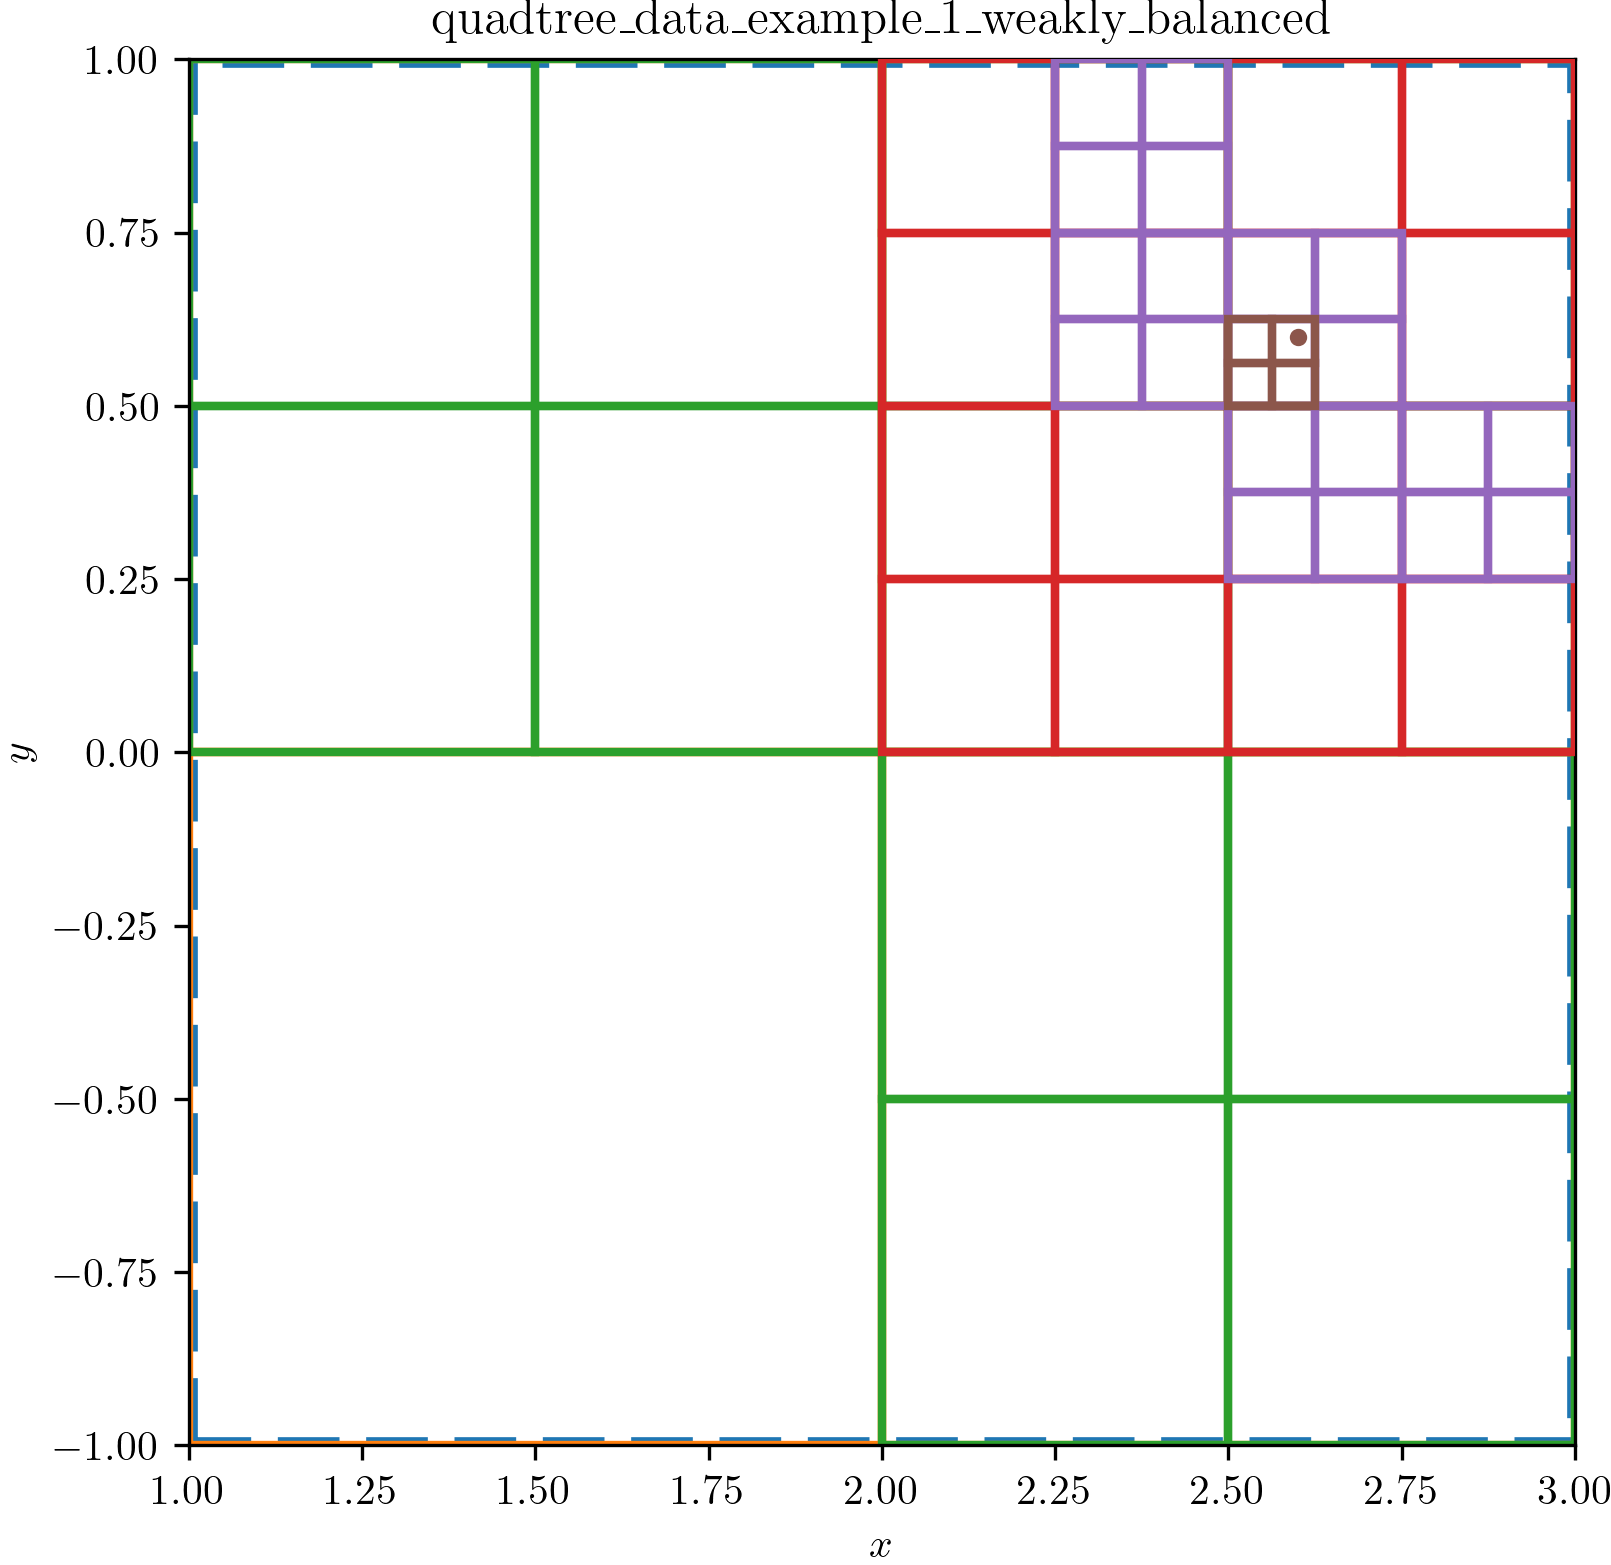
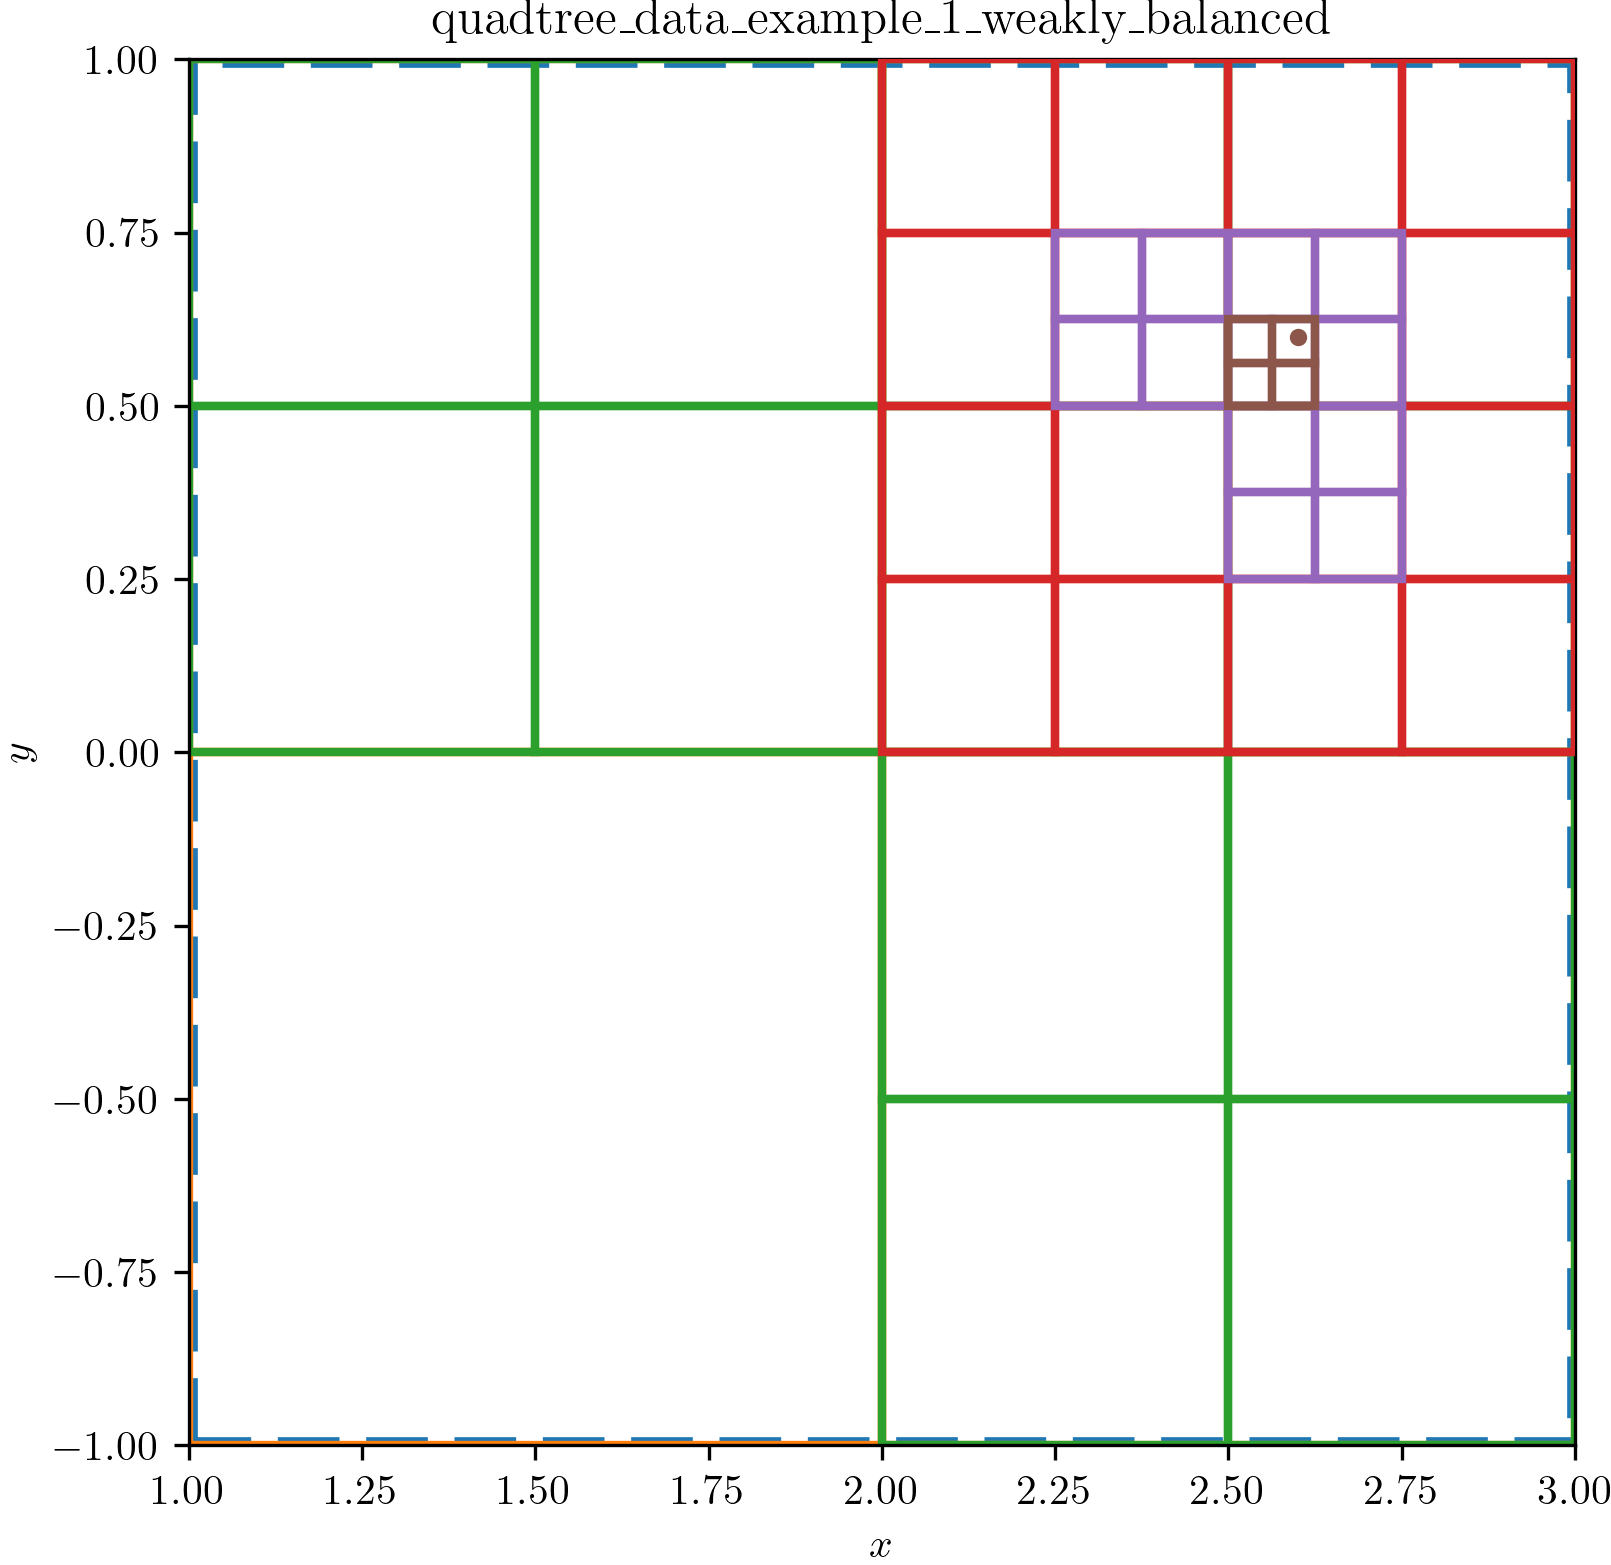
finish weakly balanced

Changed region(s): [[0.869, 0.2454, 0.9932, 0.3987], [0.6518, 0.0307, 0.7759, 0.1534]]

diff --git a/quadtree/src/lib.rs b/quadtree/src/lib.rs
@@ -416,7 +416,7 @@ impl Quadtree {
                     Direction::North => {
                         if !target_is_in_north && target_boundary.origin.y + target_boundary.height == center_y {
                             let northern_child = if target_is_in_west { nw } else { ne };
-                            northern_child.get_leaves_on_edge(Direction::South)
+                            northern_child.get_leaves_on_edge(Direction::South, target_boundary)
                         } else {
                             child_to_search.find_neighbors_recursive(target_boundary, direction)
                         }
@@ -424,7 +424,7 @@ impl Quadtree {
                     Direction::South => {
                         if target_is_in_north && target_boundary.origin.y == center_y {
                             let southern_child = if target_is_in_west { sw } else { se };
-                            southern_child.get_leaves_on_edge(Direction::North)
+                            southern_child.get_leaves_on_edge(Direction::North, target_boundary)
                         } else {
                             child_to_search.find_neighbors_recursive(target_boundary, direction)
                         }
@@ -432,7 +432,7 @@ impl Quadtree {
                     Direction::East => {
                         if target_is_in_west && target_boundary.origin.x + target_boundary.width == center_x {
                             let eastern_child = if target_is_in_north { ne } else { se };
-                            eastern_child.get_leaves_on_edge(Direction::West)
+                            eastern_child.get_leaves_on_edge(Direction::West, target_boundary)
                         } else {
                             child_to_search.find_neighbors_recursive(target_boundary, direction)
                         }
@@ -440,7 +440,7 @@ impl Quadtree {
                     Direction::West => {
                         if !target_is_in_west && target_boundary.origin.x == center_x {
                             let western_child = if target_is_in_north { nw } else { sw };
-                            western_child.get_leaves_on_edge(Direction::East)
+                            western_child.get_leaves_on_edge(Direction::East, target_boundary)
                         } else {
                             child_to_search.find_neighbors_recursive(target_boundary, direction)
                         }
@@ -451,32 +451,53 @@ impl Quadtree {
     }
 
     /// Helper function to get all leaves on a specific edge of a quadtree node.
-    fn get_leaves_on_edge<'a>(&'a self, edge: Direction) -> Vec<&'a Quadtree> {
+    fn get_leaves_on_edge<'a>(&'a self, edge: Direction, target_boundary: &Rectangle) -> Vec<&'a Quadtree> {
+        // First, check for intersection in the transverse driection.
+        // For West/East edge, check for y-overlap.
+        // For North/South edge, check x-overlap.
+        let intersects = match edge {
+            Direction::East | Direction::West => {
+                // y-overlap check
+                self.boundary.origin.y < target_boundary.origin.y + target_boundary.height
+                    && self.boundary.origin.y + self.boundary.height > target_boundary.origin.y
+            }
+            Direction::North | Direction::South => {
+                // x-overlap check
+                self.boundary.origin.x < target_boundary.origin.x + target_boundary.width
+                    && self.boundary.origin.x + self.boundary.width > target_boundary.origin.x
+            }
+        };
+
+        if !intersects {
+            return vec![];  // No overlap, so no neighbors in this branch.
+        }
+
+        // If there is overlap, proceed with finding the leaves on the edge
         match &self.node {
             Node::Leaf { .. } => vec![self],
             Node::Children { nw, ne, sw, se } => match edge {
                 Direction::North => {
                     // Collect 'north' from nw and ne
-                    let mut leaves = nw.get_leaves_on_edge(edge);
-                    leaves.extend(ne.get_leaves_on_edge(edge));
+                    let mut leaves = nw.get_leaves_on_edge(edge, target_boundary);
+                    leaves.extend(ne.get_leaves_on_edge(edge, target_boundary));
                     leaves
                 }
                 Direction::East => {
                     // Collect 'east' from ne and se
-                    let mut leaves = ne.get_leaves_on_edge(edge);
-                    leaves.extend(se.get_leaves_on_edge(edge));
+                    let mut leaves = ne.get_leaves_on_edge(edge, target_boundary);
+                    leaves.extend(se.get_leaves_on_edge(edge, target_boundary));
                     leaves
                 }
                 Direction::South => {
                     // Collect 'south' from sw and se
-                    let mut leaves = sw.get_leaves_on_edge(edge);
-                    leaves.extend(se.get_leaves_on_edge(edge));
+                    let mut leaves = sw.get_leaves_on_edge(edge, target_boundary);
+                    leaves.extend(se.get_leaves_on_edge(edge, target_boundary));
                     leaves
                 }
                 Direction::West => {
                     // Collect 'west' from nw and sw
-                    let mut leaves = nw.get_leaves_on_edge(edge);
-                    leaves.extend(sw.get_leaves_on_edge(edge));
+                    let mut leaves = nw.get_leaves_on_edge(edge, target_boundary);
+                    leaves.extend(sw.get_leaves_on_edge(edge, target_boundary));
                     leaves
                 }
             }

diff --git a/quadtree/.gemini/PLAN.md b/quadtree/.gemini/PLAN.md
@@ -80,11 +80,12 @@ This phase focuses on implementing standard balancing conditions to ensure the q
 This feature is now implemented. A `weak_balance` function was added that iteratively subdivides leaves until the 2:1 balance condition is met. The implementation involved adding several helper functions for neighbor finding and tree traversal.
 
 - [x] **Create `weak_balance` function**: Implemented as a post-processing step that operates in a loop.
-- [x] **Implement Neighbor Finding**: Created `face_neighbors` and a recursive helper `find_leaves_in_bounds` to find adjacent leaves. Added an `intersects` method to `Rectangle` to support this.
+- [x] **Implement Neighbor Finding**: Implemented a robust, traversal-based `face_neighbors` function. This approach uses recursive helpers (`find_neighbors_recursive` and `get_leaves_on_edge`) to find adjacent leaves by walking the tree's structure, avoiding geometric intersection tests.
 - [x] **Implement Balancing Pass**: Created `balance_pass_weakly` which traverses the tree, finds imbalances, and collects nodes for subdivision using raw pointers in a `HashSet`.
 - [x] **Subdivide Unbalanced Leaves**: Implemented `subdivide_leaves_by_pointer` to perform the subdivisions identified in the balancing pass.
 - [x] **Add Tests**: Created and debugged a unit test (`test_weak_balance`) that manually constructs an unbalanced tree and asserts that it is correctly balanced.
 - [x] **Add Visualization**: Updated `main.rs` to visualize the before-and-after state of the tree when `weak_balance` is called, demonstrating the feature.
+- [x] **Debug and Refine Balancing**: Iteratively debugged the weak balancing implementation, fixing two subtle bugs related to corner-adjacency being incorrectly treated as face-adjacency. This ensured the balancing algorithm is both correct and robust.
 
 ### 2. Implement Strong Balancing (Next Steps)
 
